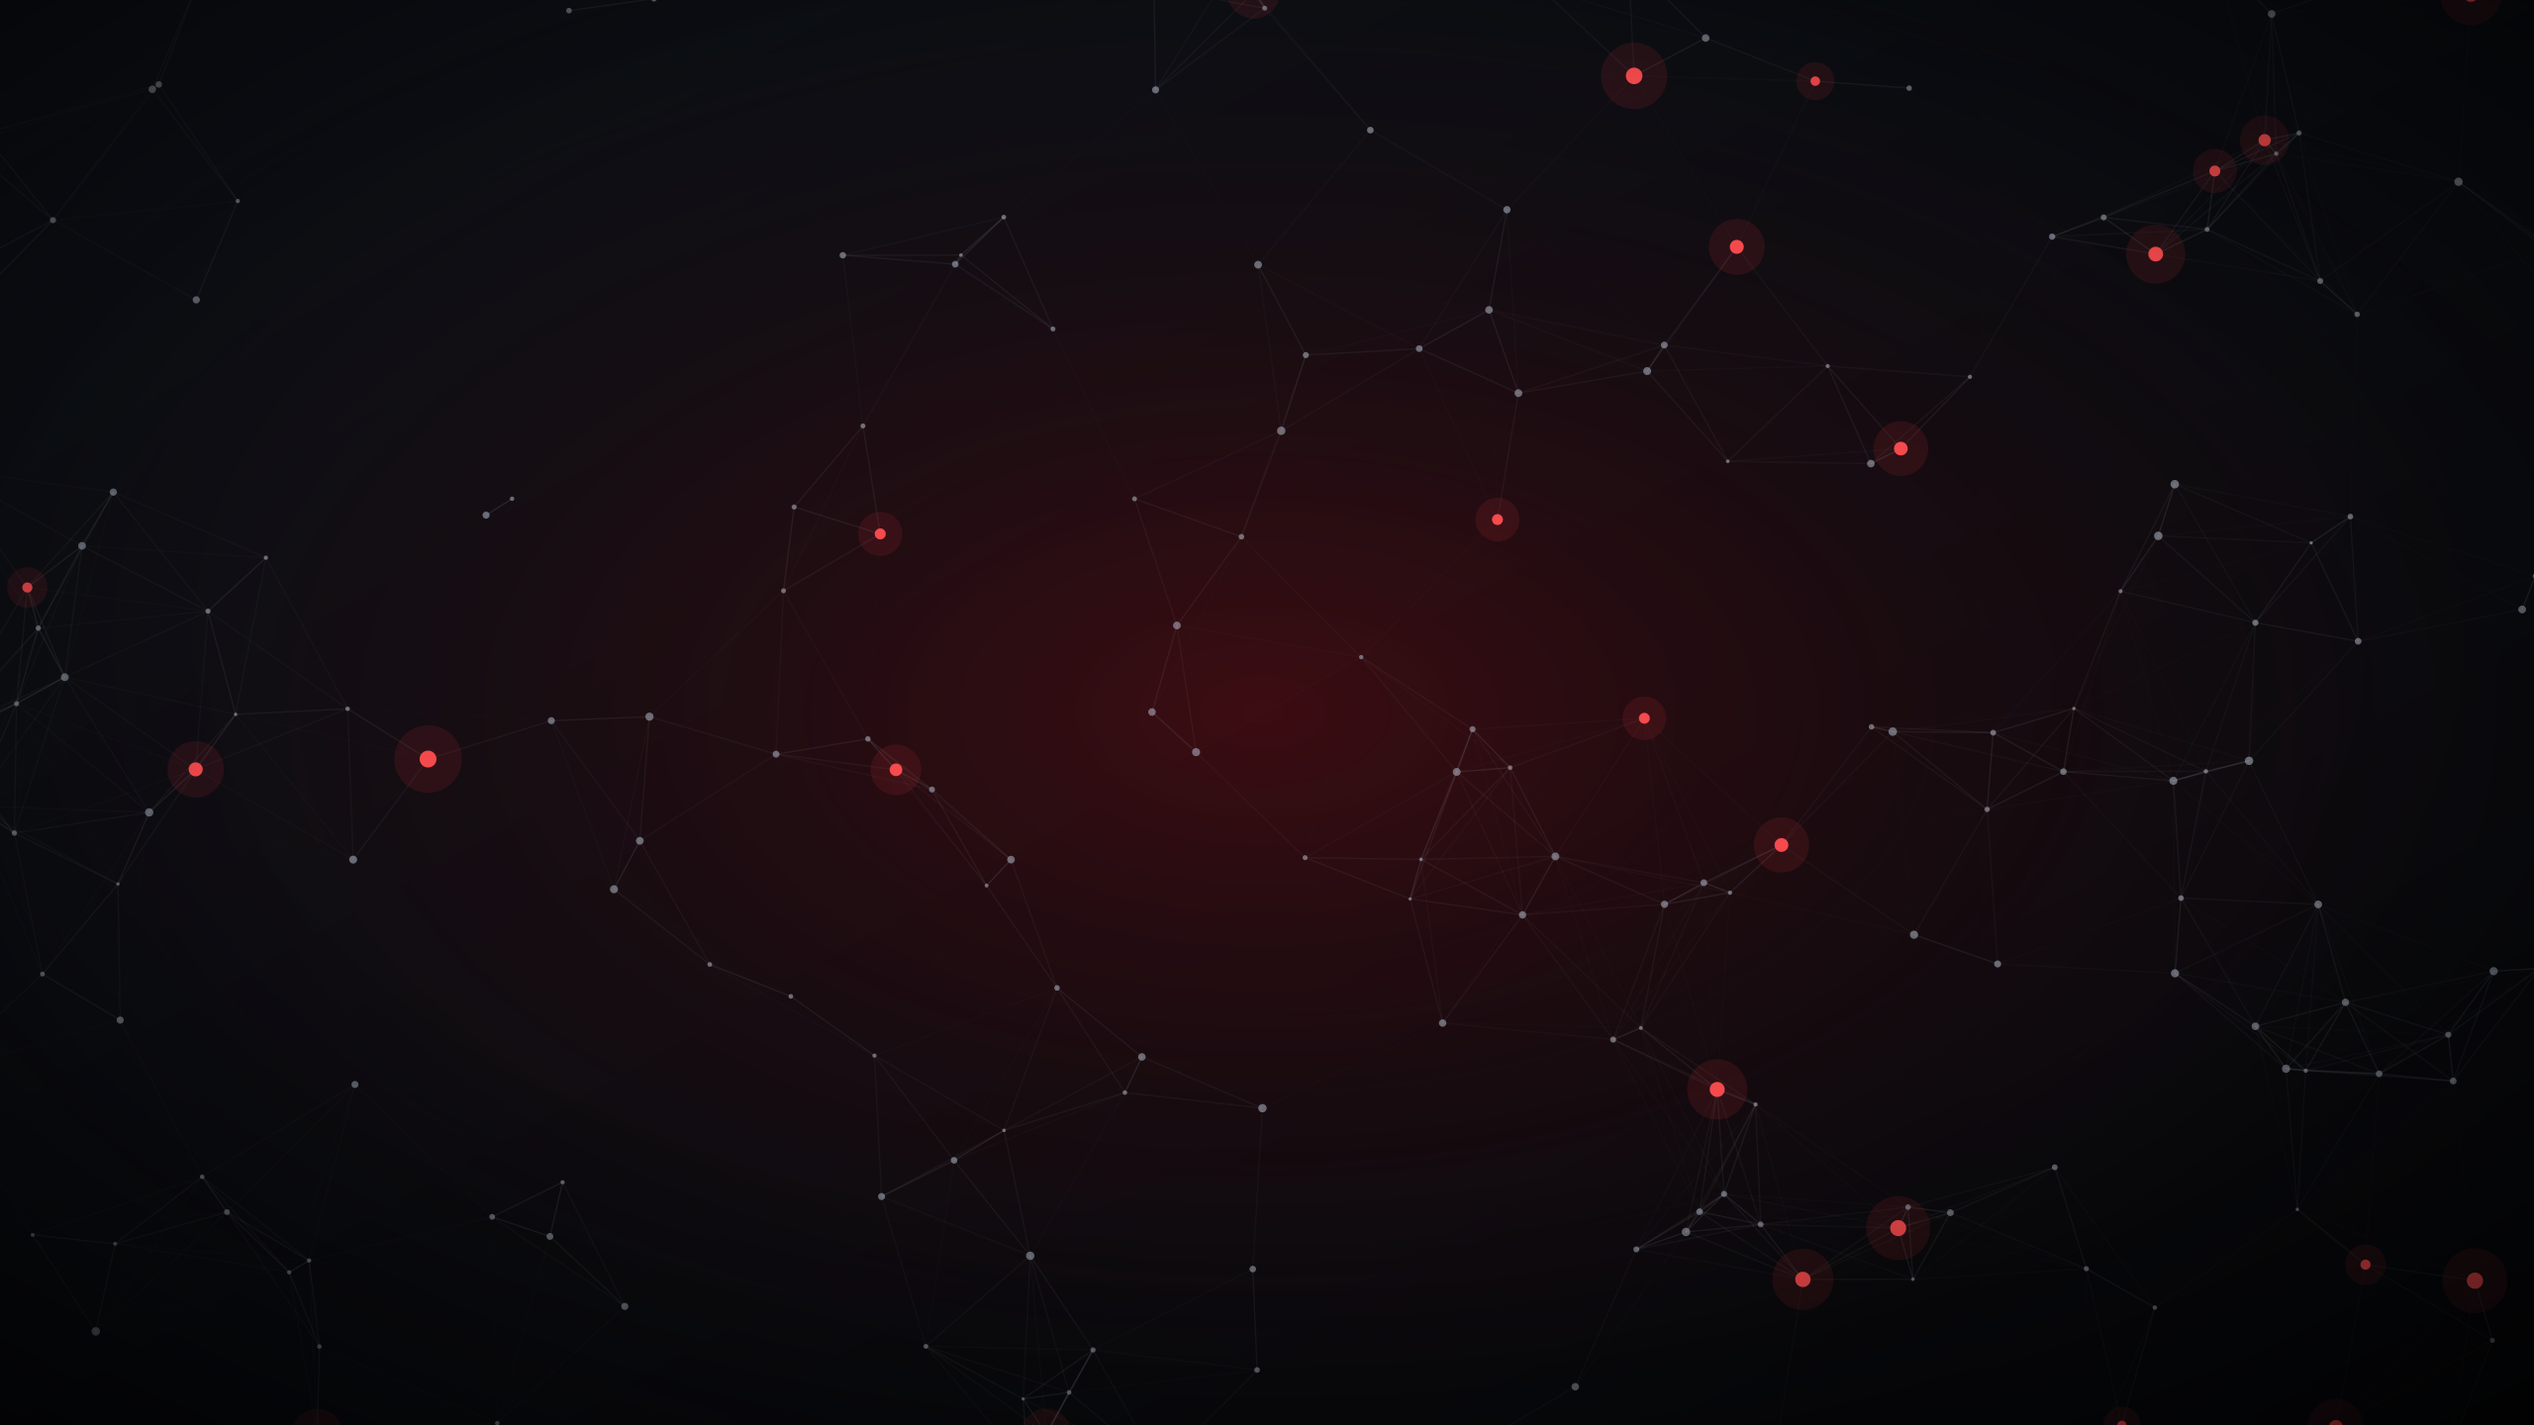
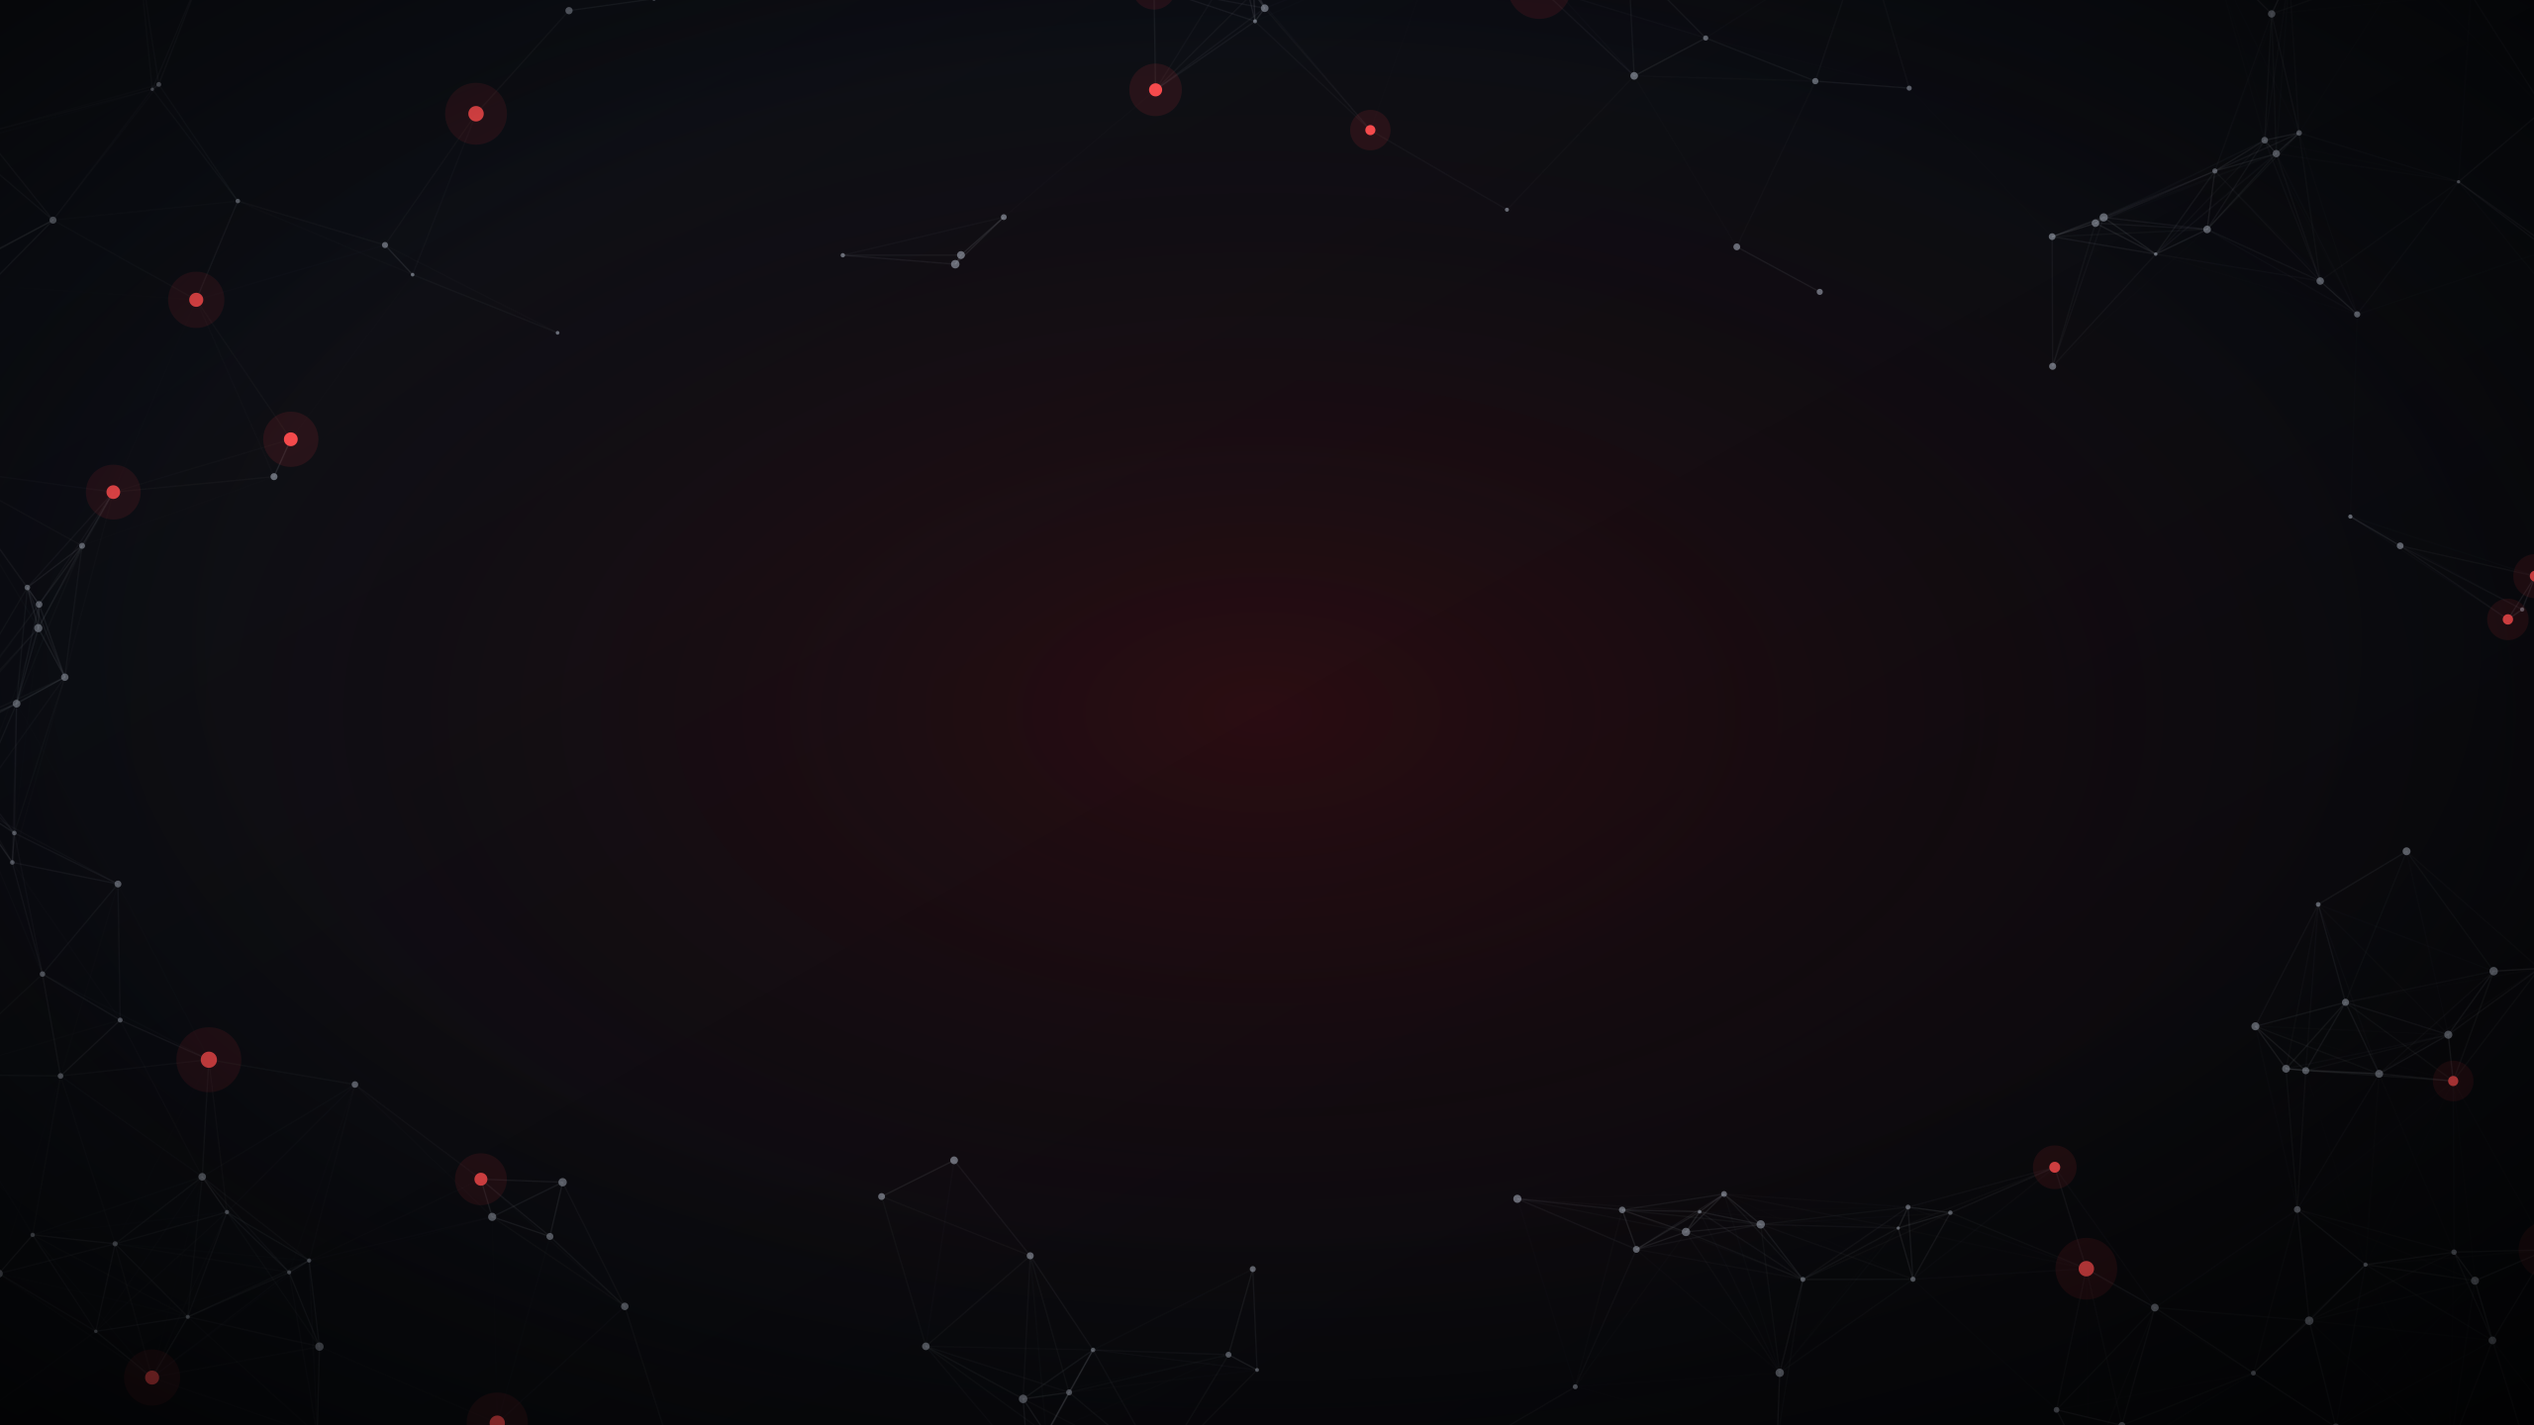
Final-QA fixes to agenda, act dividers, intelligence explosion, coda and closing slides; unify Act III kickers
Claude-Session: https://claude.ai/code/session_01Gs6nrmAXs29Kx7ERy8wBV7

diff --git a/ai-safety-presentation/tools/theory_slides.js b/ai-safety-presentation/tools/theory_slides.js
@@ -45,7 +45,7 @@ function agendaSlide(d) {
       { text: `ACT ${num}   `, options: { color: d.S.red, bold: true, fontSize: 11, charSpacing: 3 } },
       { text: title, options: { color: d.S.txt, bold: true, fontSize: 20, fontFace: 'Arial', breakLine: true } },
       { text: sub, options: { color: d.S.muted, fontSize: 13 } },
-    ], { x: lx, y: p.y - 0.4, w: 4.2, h: 0.8, align: 'right', valign: 'middle' });
+    ], { x: lx, y: p.y - 0.78, w: 4.2, h: 0.72, align: 'right', valign: 'bottom' });
     names.push([dot, t1]);
   });
   const intro = d.text(s, [
@@ -72,10 +72,10 @@ async function explosionSlide(d) {
   s.addText('INSIDE THE MACHINE · RECURSIVE SELF-IMPROVEMENT', { placeholder: 'kicker' });
   s.addText('The intelligence explosion', { placeholder: 'title' });
   const q = d.text(s, [
-    { text: '“', options: { fontSize: 54, color: d.S.red, bold: true, fontFace: 'Cambria', breakLine: true } },
-    { text: '…an ultraintelligent machine could design even better machines; there would then unquestionably be an ‘intelligence explosion,’ and the intelligence of man would be left far behind. Thus the first ultraintelligent machine is the last invention that man need ever make, provided that the machine is docile enough to tell us how to keep it under control.”', options: { fontSize: 17, color: d.S.txt, italic: true, fontFace: 'Cambria', breakLine: true } },
-    { text: '— I. J. Good, 1965', options: { fontSize: 12, color: d.S.muted } },
-  ], { x: MX, y: 1.65, w: 5.5, h: 4.75, valign: 'top' });
+    { text: '“', options: { fontSize: 30, color: d.S.red, bold: true, fontFace: 'Cambria' } },
+    { text: '…an ultraintelligent machine could design even better machines; there would then unquestionably be an ‘intelligence explosion,’ and the intelligence of man would be left far behind. Thus the first ultraintelligent machine is the last invention that man need ever make, provided that the machine is docile enough to tell us how to keep it under control.”', options: { fontSize: 19, color: d.S.txt, italic: true, fontFace: 'Cambria', breakLine: true, paraSpaceAfter: 10 } },
+    { text: '— I. J. Good, 1965', options: { fontSize: 13, color: d.S.muted } },
+  ], { x: MX, y: 1.9, w: 5.6, h: 4.4, valign: 'middle' });
   // loop diagram
   const cx = 9.7, cy = 4.0, r = 1.5;
   const steps = [['FaRobot', 'AI does AI research'], ['FaMicrochip', 'Better AI'], ['FaBolt', 'Faster research'], ['FaRedoAlt', 'Even better AI']];
@@ -101,11 +101,23 @@ async function explosionSlide(d) {
     nn.push(d.text(s, steps[i][1], { x: lx, y: ly, w: lw, h: 0.38, fontSize: 14, bold: true, color: d.S.txt, align: side === 'center' ? 'center' : side === 'left' ? 'right' : 'left', valign: 'middle' }));
     nodes.push(nn);
   }
-  const center = d.text(s, [{ text: '×', options: { fontSize: 40, bold: true, color: d.S.red, breakLine: true } }, { text: 'each lap faster', options: { fontSize: 12, color: d.S.muted } }], { x: cx - 1, y: cy - 0.6, w: 2, h: 1.2, align: 'center', valign: 'middle' });
+  // clockwise arrowheads between the nodes
+  const arrows = [];
+  for (const deg of [-45, 45, 135, 225]) {
+    const a = deg * Math.PI / 180, ax = cx + r * Math.cos(a), ay = cy + r * Math.sin(a);
+    const rot = Math.atan2(-Math.sin(a), -Math.cos(a)) * 180 / Math.PI; // tangent (−sin, cos) → rotation of an up-pointing triangle
+    const n = d.name('arrow');
+    s.addShape(d.pres.shapes.ISOSCELES_TRIANGLE, { x: ax - 0.11, y: ay - 0.11, w: 0.22, h: 0.22, rotate: rot, fill: { color: HEX.red }, line: { color: HEX.red, width: 0 }, objectName: n });
+    arrows.push(n);
+  }
+  const cIcon = d.name('cicon');
+  s.addImage({ data: await icon('FaTachometerAlt', '#E5383B'), x: cx - 0.3, y: cy - 0.55, w: 0.6, h: 0.6, objectName: cIcon });
+  const cText = d.text(s, 'each lap faster', { x: cx - 1, y: cy + 0.12, w: 2, h: 0.35, fontSize: 13, color: d.S.muted, align: 'center', valign: 'middle' });
+  const center = [cIcon, cText];
   d.animate(s, [q], { auto: true });
-  d.animate(s, [ring, ...nodes[0]], { effect: 'fade' });
+  d.animate(s, [ring, ...arrows, ...nodes[0]], { effect: 'fade' });
   nodes.slice(1).forEach(n => d.animate(s, n, { auto: true, effect: 'fade', after: 250 }));
-  d.animate(s, [center], { auto: true, effect: 'zoom', after: 250 });
+  d.animate(s, center, { auto: true, effect: 'zoom', after: 250 });
   d.source(s, 'Good, I. J. (1965). Speculations Concerning the First Ultraintelligent Machine. Advances in Computers 6, pp. 31–88.');
   s.addNotes('Good wrote this in 1965. The caveat at the end is the whole field of AI safety in one clause. Full passage: “Let an ultraintelligent machine be defined as a machine that can far surpass all the intellectual activities of any man however clever. Since the design of machines is one of these intellectual activities, an ultraintelligent machine could design even better machines; …” Source: Good, I. J. (1965), Speculations Concerning the First Ultraintelligent Machine, Advances in Computers 6 (quoted at https://en.wikipedia.org/wiki/I._J._Good).');
   return s;
@@ -124,23 +136,23 @@ async function whatNowSlide(d) {
   const cw = (W - 2 * MX - 3 * 0.3) / 4;
   const groups = [];
   for (let i = 0; i < items.length; i++) {
-    const x = MX + i * (cw + 0.3), y = 1.95;
+    const x = MX + i * (cw + 0.3), y = 1.9;
     const g = [];
-    g.push(d.card(s, { x, y, w: cw, h: 3.6 }));
+    g.push(d.card(s, { x, y, w: cw, h: 3.75 }));
     const c = d.name('c');
     s.addShape(d.pres.shapes.OVAL, { x: x + 0.3, y: y + 0.35, w: 0.9, h: 0.9, fill: { color: '2A0C0E' }, line: { color: HEX.red, width: 1 }, objectName: c });
     g.push(c);
     const im = d.name('im');
     s.addImage({ data: await icon(items[i][0], '#E5383B'), x: x + 0.52, y: y + 0.57, w: 0.46, h: 0.46, objectName: im });
     g.push(im);
-    g.push(d.text(s, items[i][1], { x: x + 0.3, y: y + 1.45, w: cw - 0.6, h: 0.45, fontSize: 19, bold: true, color: d.S.txt, fontFace: 'Arial' }));
-    g.push(d.text(s, items[i][2], { x: x + 0.3, y: y + 1.95, w: cw - 0.6, h: 1.5, fontSize: 14, color: d.S.muted, valign: 'top' }));
+    g.push(d.text(s, items[i][1], { x: x + 0.3, y: y + 1.4, w: cw - 0.5, h: 0.45, fontSize: 21, bold: true, color: d.S.txt, fontFace: 'Arial' }));
+    g.push(d.text(s, items[i][2], { x: x + 0.3, y: y + 1.95, w: cw - 0.5, h: 1.7, fontSize: 17, color: d.S.muted, valign: 'top' }));
     groups.push(g);
   }
   const bottom = d.text(s, [
     { text: 'The window is not closed. ', options: { bold: true, color: d.S.txt } },
     { text: 'But it is closing at the speed of the curve you have seen all talk.', options: { color: d.S.muted } },
-  ], { x: MX, y: 5.85, w: W - 2 * MX, h: 0.5, fontSize: 18 });
+  ], { x: MX, y: 5.95, w: W - 2 * MX, h: 0.55, fontSize: 21 });
   groups.forEach((g, i) => d.animate(s, g, { auto: true, effect: 'rise', after: i ? 100 : 200 }));
   d.animate(s, [bottom], { effect: 'fade' });
   s.addNotes('End on agency: there is real work to do, and it needs people.');
@@ -151,7 +163,7 @@ function closingSlide(d, { agents = 'dozens of' } = {}) {
   const s = d.slide('Closing', { transition: 'fadeBlack' });
   const a = d.text(s, 'ONE MORE THING', { x: MX, y: 2.0, w: W - 2 * MX, h: 0.4, fontSize: 14, bold: true, color: d.S.red, charSpacing: 6, align: 'center' });
   const b = d.text(s, 'This presentation was made by an AI.', { x: MX, y: 2.55, w: W - 2 * MX, h: 0.9, fontSize: 40, bold: true, color: d.S.txt, align: 'center', fontFace: 'Arial' });
-  const c = d.text(s, `Every headline was found, every chart was built and every slide was designed by Claude — ${agents} AI agents working in parallel from a one-page outline — while its author watched.`, { x: 1.8, y: 3.6, w: W - 3.6, h: 1.0, fontSize: 18, color: d.S.muted, align: 'center' });
+  const c = d.text(s, `Every headline was found, every chart was built and every slide was designed by Claude — ${agents} AI agents working in parallel from a one-page outline — while its author watched.`, { x: 1.8, y: 3.6, w: W - 3.6, h: 1.0, fontSize: 18, color: d.S.txt, align: 'center' });
   const e = d.text(s, 'Thank you. Sleep well.', { x: MX, y: 5.2, w: W - 2 * MX, h: 0.5, fontSize: 22, italic: true, color: d.S.txt, align: 'center', fontFace: 'Cambria' });
   d.animate(s, [a], { auto: true, dur: 800 });
   d.animate(s, [b], { effect: 'fade', dur: 900 });

diff --git a/ai-safety-presentation/tools/make_art.js b/ai-safety-presentation/tools/make_art.js
@@ -19,16 +19,19 @@ function base(extra, glow = { x: 0.82, y: 0.85, r: 0.75, c: '#7A0F14', o: 0.55 }
   <rect width="100%" height="100%" fill="url(#v)"/></svg>`;
 }
 
-function network(n, region, maxD, nodeColor, lineOp) {
+function network(n, region, maxD, nodeColor, lineOp, hole) {
   const pts = [];
-  for (let i = 0; i < n; i++) {
+  // hole: optional ellipse {cx, cy, rx, ry} kept free of nodes (and of lines crossing it) so text stays clean
+  const inHole = (x, y) => hole && ((x - hole.cx) / hole.rx) ** 2 + ((y - hole.cy) / hole.ry) ** 2 < 1;
+  while (pts.length < n) {
     const x = region.x0 + rnd() * (region.x1 - region.x0), y = region.y0 + rnd() * (region.y1 - region.y0);
-    pts.push([x, y]);
+    if (!inHole(x, y)) pts.push([x, y]);
   }
   let s = '';
   for (let i = 0; i < n; i++) for (let j = i + 1; j < n; j++) {
     const d = Math.hypot(pts[i][0] - pts[j][0], pts[i][1] - pts[j][1]);
-    if (d < maxD) s += `<line x1="${pts[i][0]}" y1="${pts[i][1]}" x2="${pts[j][0]}" y2="${pts[j][1]}" stroke="#C7CCD6" stroke-opacity="${(lineOp * (1 - d / maxD)).toFixed(3)}" stroke-width="2"/>`;
+    const mx = (pts[i][0] + pts[j][0]) / 2, my = (pts[i][1] + pts[j][1]) / 2;
+    if (d < maxD && !inHole(mx, my)) s += `<line x1="${pts[i][0]}" y1="${pts[i][1]}" x2="${pts[j][0]}" y2="${pts[j][1]}" stroke="#C7CCD6" stroke-opacity="${(lineOp * (1 - d / maxD)).toFixed(3)}" stroke-width="2"/>`;
   }
   for (const [x, y] of pts) {
     const hot = rnd() < 0.12, r = hot ? 7 + rnd() * 6 : 2.5 + rnd() * 4;
@@ -63,7 +66,7 @@ function expCurve() {
     'bg_section.png': base(grid(120, 0.03) + network(60, { x0: 2400, x1: 3900, y0: 200, y1: 2100 }, 380, '#AEB6C4', 0.16), { x: 0.9, y: 0.5, r: 0.6, c: '#8C1117', o: 0.5 }),
     'bg_content.png': base('', { x: 1.0, y: 1.0, r: 0.9, c: '#3A0A0D', o: 0.35 }),
     'bg_exp.png': base(grid(160, 0.03) + expCurve(), { x: 0.95, y: 0.05, r: 0.7, c: '#8C1117', o: 0.45 }),
-    'bg_closing.png': base(network(220, { x0: -100, x1: 3940, y0: -100, y1: 2260 }, 330, '#AEB6C4', 0.14), { x: 0.5, y: 0.5, r: 0.6, c: '#6E0D12', o: 0.5 }),
+    'bg_closing.png': base(network(170, { x0: -100, x1: 3940, y0: -100, y1: 2260 }, 330, '#AEB6C4', 0.14, { cx: 1920, cy: 1080, rx: 1750, ry: 700 }), { x: 0.5, y: 0.5, r: 0.6, c: '#6E0D12', o: 0.32 }),
   };
   for (const [name, svg] of Object.entries(jobs)) {
     await sharp(Buffer.from(svg)).png({ compressionLevel: 9 }).resize(2560, 1440).toFile(path.join(OUT, name));

diff --git a/ai-safety-presentation/tools/lib.js b/ai-safety-presentation/tools/lib.js
@@ -50,7 +50,7 @@ function makePres() {
     objects: [
       { placeholder: { options: { name: 'kicker', type: 'body', x: MX, y: 2.45, w: 8, h: 0.45, fontSize: 16, bold: true, color: S.red, charSpacing: 6, margin: 0 }, text: '' } },
       { placeholder: { options: { name: 'title', type: 'title', x: MX, y: 2.95, w: 9.5, h: 1.4, fontSize: 54, bold: true, color: S.txt, valign: 'top', align: 'left', margin: 0, fontFace: THEME.headFontFace }, text: '' } },
-      { placeholder: { options: { name: 'body', type: 'body', x: MX, y: 4.45, w: 8, h: 1.0, fontSize: 18, color: S.muted, valign: 'top', margin: 0 }, text: '' } },
+      { placeholder: { options: { name: 'body', type: 'body', x: MX, y: 4.45, w: 10.6, h: 1.0, fontSize: 18, color: S.muted, valign: 'top', margin: 0 }, text: '' } },
     ],
     slideNumber: slideNum,
   });

diff --git a/ai-safety-presentation/tools/build_deck.js b/ai-safety-presentation/tools/build_deck.js
@@ -44,7 +44,7 @@ async function mod(d, name) {
   d.sectionStart('V · Coda');
   T.sectionSlide(d, { num: 'V', title: 'Coda', body: 'What now?' });
   await T.whatNowSlide(d);
-  T.closingSlide(d, { agents: process.env.AGENT_COUNT || 'more than 70' });
+  T.closingSlide(d, { agents: process.env.AGENT_COUNT || 'more than 80' });
 
   fs.mkdirSync(path.dirname(out), { recursive: true });
   await d.write(out);

diff --git a/ai-safety-presentation/tools/slides_security.js b/ai-safety-presentation/tools/slides_security.js
@@ -8,7 +8,7 @@ const { icon } = require('./icons');
 
 const R = (f) => A('research', 'security', f);
 const OUT = A('slides', 'security');
-const KICK = 'LOSS OF CONTROL';
+const KICK = 'THE ALIGNMENT PROBLEM';
 
 // Verified manifest items (headline cards pull their text straight from here, so it stays verbatim).
 const MAN = JSON.parse(fs.readFileSync(R('manifest.json'), 'utf8'));
